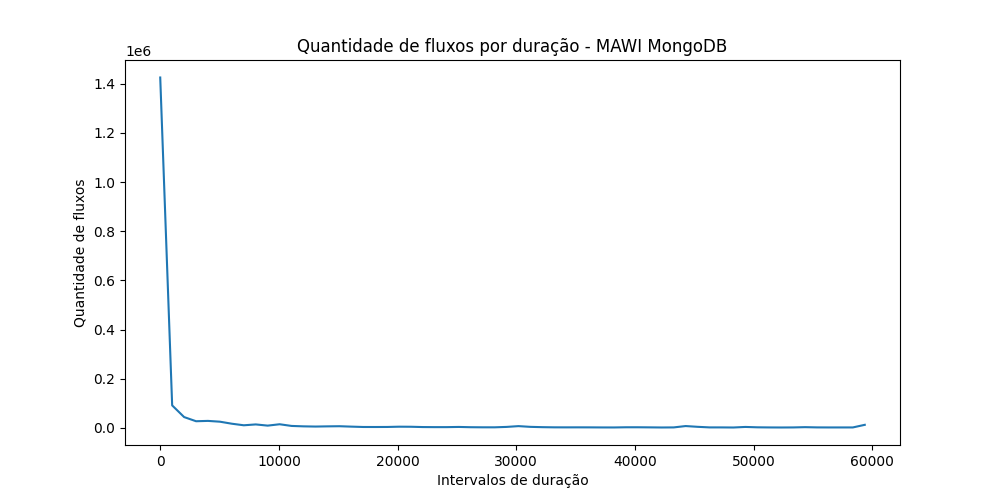
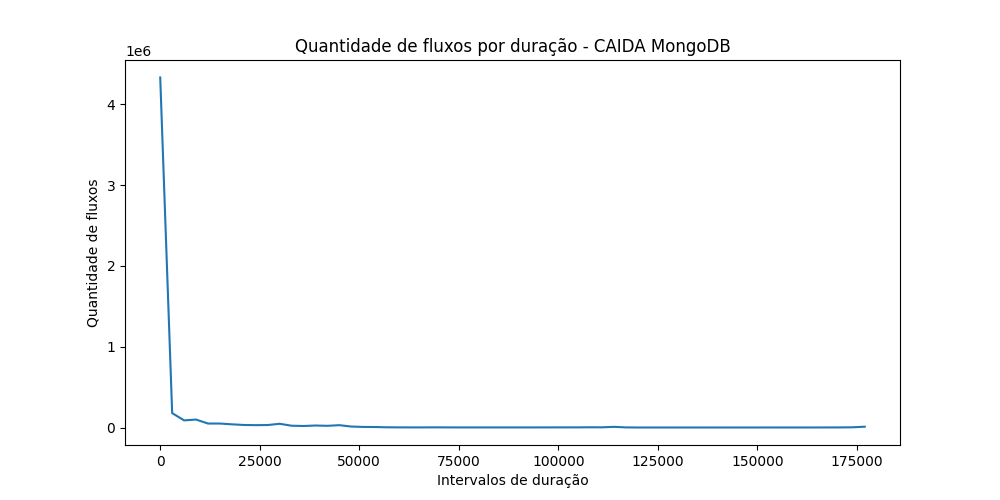
fix: algumas alterações nos códigos de geração de fluxos

diff --git a/AvaliadorFluxo/GeraGraficosMongo.py b/AvaliadorFluxo/GeraGraficosMongo.py
@@ -2,11 +2,18 @@ import matplotlib.pyplot as plt
 import pymongo
 import time
 
-PATH_GRAPHS = "AvaliadorFluxo/Saida/Graficos/AnaliseMawi"
-NAME = "MAWI MongoDB"
-NUMBER_BINS_HISTOGRAMA = 60
-DB_NAME = "fluxos_database"
-COLLECTION_NAME = "mawi_collection"
+if True:
+    PATH_GRAPHS = "AvaliadorFluxo/Saida/Graficos/AnaliseCaida"
+    NAME = "CAIDA MongoDB"
+    NUMBER_BINS_HISTOGRAMA = 60
+    DB_NAME = "fluxos_database"
+    COLLECTION_NAME = "caida_collection"
+else:
+    PATH_GRAPHS = "AvaliadorFluxo/Saida/Graficos/AnaliseMAWI"
+    NAME = "MAWI MongoDB"
+    NUMBER_BINS_HISTOGRAMA = 60
+    DB_NAME = "fluxos_database"
+    COLLECTION_NAME = "mawi_collection"
 
 def main():
     # Conecta ao MongoDB
@@ -14,7 +21,7 @@ def main():
     db = mongo_client[DB_NAME]
     collection = db[COLLECTION_NAME]
 
-    # Pega o maior e o menor tempo de duração e a maior e a menor quantidade de bytes usando queries
+    # Pega o maior e o menor tempo de duracao e a maior e a menor quantidade de bytes usando queries
     bigger_duration = collection.find_one(sort=[("duration", pymongo.DESCENDING)])["duration"]
     smaller_duration = collection.find_one(sort=[("duration", pymongo.ASCENDING)])["duration"]
     bigger_bytes = collection.find_one(sort=[("nbytes_total", pymongo.DESCENDING)])["nbytes_total"]
@@ -25,7 +32,7 @@ def main():
     print("Maior quantidade de bytes: ", bigger_bytes)
     print("Menor quantidade de bytes: ", smaller_bytes)
 
-    # Gera os intervalos de duração e bytes
+    # Gera os intervalos de duracao e bytes
     duration_interval = (bigger_duration - smaller_duration) / NUMBER_BINS_HISTOGRAMA
     duration_intervals = []
     for i in range(NUMBER_BINS_HISTOGRAMA):
@@ -52,13 +59,13 @@ def main():
     # # Número total de bytes
     # total_bytes = sum(bytesSoma)
     # print("Total de bytes: ", total_bytes)
-    # # Tamanho médio dos pacotes
+    # # Tamanho medio dos pacotes
     # tamanho_medio = total_bytes / total_pacotes
-    # print("Tamanho médio dos pacotes: ", tamanho_medio)
+    # print("Tamanho medio dos pacotes: ", tamanho_medio)
 
-# Gráficos
+# Graficos
 
-# Histograma de duração dos fluxos
+# Histograma de duracao dos fluxos
 def duration_histogram(collection, duration_intervals, flows_by_duration_counters, packets_by_duration_counters, total_bytes_by_duration_counters):
     print("*" * 50)
     print("Gerando histograma de duracao dos fluxos...")
@@ -70,7 +77,7 @@ def duration_histogram(collection, duration_intervals, flows_by_duration_counter
         flows_by_duration_counters[i] = collection.count_documents(query)
 
         # Conta a quantidade de pacotes e bytes
-        # Verifique se há resultado antes de acessar
+        # Verifique se ha resultado antes de acessar
         result = collection.aggregate([
             {"$match": query},
             {"$group": {"_id": None, "total_packets": {"$sum": "$npackets_total"}, "total_bytes": {"$sum": "$nbytes_total"}}}
@@ -83,20 +90,20 @@ def duration_histogram(collection, duration_intervals, flows_by_duration_counter
             packets_by_duration_counters[i] = 0
             total_bytes_by_duration_counters[i] = 0
 
-    # Gráfico de linha
+    # Grafico de linha
     plt.figure(figsize=(10, 5))
     plt.plot(duration_intervals, flows_by_duration_counters)
-    plt.xlabel('Intervalos de duração')
+    plt.xlabel('Intervalos de duracao')
     plt.ylabel('Quantidade de fluxos')
-    plt.title('Quantidade de fluxos por duração - ' + NAME)
+    plt.title('Quantidade de fluxos por duracao - ' + NAME)
     plt.savefig(PATH_GRAPHS + "/NumeroDeFluxosPorDuracaoLinha.png")
 
     # Gŕafico de barras
     plt.figure(figsize=(10, 5))
     plt.bar(duration_intervals, flows_by_duration_counters, color="blue", width=(duration_intervals[1] - duration_intervals[0]) * 0.8)
-    plt.xlabel('Intervalos de duração')
+    plt.xlabel('Intervalos de duracao')
     plt.ylabel('Quantidade de fluxos')
-    plt.title('Quantidade de fluxos por duração - ' + NAME)
+    plt.title('Quantidade de fluxos por duracao - ' + NAME)
     plt.savefig(PATH_GRAPHS + "/NumeroDeFluxosPorDuracaoBarra.png")
     print("Quantidade de fluxos por duracao gerado com sucesso!")
 
@@ -110,7 +117,7 @@ def bytes_histogram(collection, bytes_intervals, flows_by_bytes_counters):
             query = {"nbytes_total": {"$gte": bytes_intervals[i], "$lt": bytes_intervals[i + 1]}}
         flows_by_bytes_counters[i] = collection.count_documents(query)
 
-    # Gráfico de linha
+    # Grafico de linha
     plt.figure(figsize=(10, 5))
     plt.plot(bytes_intervals, flows_by_bytes_counters)
     plt.yscale('log')
@@ -119,7 +126,7 @@ def bytes_histogram(collection, bytes_intervals, flows_by_bytes_counters):
     plt.title('Quantidade de fluxos por bytes - ' + NAME)
     plt.savefig(PATH_GRAPHS + "/NumeroFluxosPorBytesLinha.png")
 
-    # Gráfico de barra
+    # Grafico de barra
     plt.figure(figsize=(10, 5))
     plt.bar(bytes_intervals, flows_by_bytes_counters, color="blue", width=(bytes_intervals[1] - bytes_intervals[0]) * 0.8)
     plt.yscale('log')
@@ -139,30 +146,30 @@ def average_packet_size_by_duration_histogram(duration_intervals, packets_by_dur
         else:
             tamanho_medio.append(0)
 
-    # Gráfico de linha
+    # Grafico de linha
     plt.clf()
     plt.plot(duration_intervals, tamanho_medio) 
-    plt.xlabel('Intervalos de duração')
-    plt.ylabel('Tamanho médio dos pacotes')
-    plt.title('Tamanho médio dos pacotes em relação a duração - ' + NAME)
+    plt.xlabel('Intervalos de duracao')
+    plt.ylabel('Tamanho medio dos pacotes')
+    plt.title('Tamanho medio dos pacotes em relacao a duracao - ' + NAME)
     plt.savefig(PATH_GRAPHS + "/TamanhoMedioPacotesPorDuracapLinha.png")
 
     # Gŕafico de barras
     plt.clf()
     plt.bar(duration_intervals, tamanho_medio, color="blue", width=(duration_intervals[1] - duration_intervals[0]) * 0.8)
-    plt.xlabel('Intervalos de duração')
-    plt.ylabel('Tamanho médio dos pacotes')
-    plt.title('Tamanho médio dos pacotes em relação a duração - ' + NAME)
+    plt.xlabel('Intervalos de duracao')
+    plt.ylabel('Tamanho medio dos pacotes')
+    plt.title('Tamanho medio dos pacotes em relacao a duracao - ' + NAME)
     plt.savefig(PATH_GRAPHS + "/TamanhoMedioPacotesPorDuracaoBarra.png")
     print("Histograma de tamanho medio dos pacotes por duracao gerado com sucesso!")
 
 if __name__ == '__main__':
     start_time = time.time()
-    print("Iniciando a geração dos gráficos...")
-    print("Horário:", time.strftime("%H:%M:%S", time.localtime(start_time)))
+    print("Iniciando a geracao dos graficos...")
+    print("Horario:", time.strftime("%H:%M:%S", time.localtime(start_time)))
     print("=" * 50)
     main()
     print("=" * 50)
     end_time = time.time()
     execution_time = end_time - start_time
-    print("Tempo de execução: ", execution_time, " segundos")
+    print("Tempo de execucao: ", execution_time, " segundos")

diff --git a/AvaliadorFluxo/PreProcessameto/UnificadorFluxos.py b/AvaliadorFluxo/PreProcessameto/UnificadorFluxos.py
@@ -4,14 +4,16 @@ from FluxoFile import FluxoFile
 
 # Hiperparametros
 FILES_FLUXOS = [
-    '/home/deivis/Projetos/large-pcap-analyzer-2/caida02.txt',
-    '/home/deivis/Projetos/large-pcap-analyzer-2/caida03.txt',
+    './Datasets/Fluxos/CAIDA/caida02.txt',
+    './Datasets/Fluxos/CAIDA/caida03.txt',
+    './Datasets/Fluxos/CAIDA/caida04.txt',
 ]
 
 DATA_BASE_NAME = "fluxos_database"
 COLLECTION_NAME = "caida_collection"
-TIMEOUT_LIMIT = 20 * 1000  # 15 segundos em milissegundos
+TIMEOUT_LIMIT = 20 * 1000  # 20 segundos em milissegundos
 OFFSET = 60 * 1000         # 60 segundos em milissegundos
+BATCH_SIZE = 50000
 
 # Conecta ao MongoDB
 mongo_client = pymongo.MongoClient("mongodb://localhost:27017/")
@@ -19,25 +21,25 @@ db = mongo_client[DATA_BASE_NAME]
 collection = db[COLLECTION_NAME]
 
 # Cria indices
-collection.create_index([("src", pymongo.ASCENDING),
-                         ("src_port", pymongo.ASCENDING),
-                         ("dst", pymongo.ASCENDING),
-                         ("dst_port", pymongo.ASCENDING)])
+collection.create_index([
+    ("src", pymongo.ASCENDING),
+    ("src_port", pymongo.ASCENDING),
+    ("dst", pymongo.ASCENDING),
+    ("dst_port", pymongo.ASCENDING),
+    ("start", pymongo.DESCENDING),
+])
 
 actual_offset = OFFSET
 
+print("Base de dados:", db.name)
+print("Colecao:", collection.name)
+
 # Percorre os arquivos de fluxos
 for file_name in FILES_FLUXOS:
-    # Carrega os fluxos em memoria
-    with open(file_name, "r") as file:
-        lines = file.readlines()
-
     # Tempo inicial
     start_time = time.time()
     print("Inserindo os fluxos no banco de dados...")
     print("Arquivo:", file_name)
-    print("Base de dados:", db.name)
-    print("Colecao:", collection.name)
     print("Horario:", time.strftime("%H:%M:%S", time.localtime(start_time)))
 
     # Prepara operacoes em lote
@@ -48,58 +50,59 @@ for file_name in FILES_FLUXOS:
     total_updated = 0
     time_to_end_less_than_zero = 0
 
-    # Dados Exemplos
-    last_update_flow = None
-    last_new_flow_on_update = None
-    last_flow = None
+    # Carrega os fluxos em memoria
+    with open(file_name, "r") as file:
+        for line in file:
+            flow = FluxoFile(line, True)
+            query = {
+                "src": flow.src,
+                "src_port": flow.src_port,
+                "dst": flow.dst,
+                "dst_port": flow.dst_port,
+            }
 
-    for line in lines:
-        flow = FluxoFile(line, True)
-        last_flow = flow
-        query = {
-            "src": flow.src,
-            "src_port": flow.src_port,
-            "dst": flow.dst,
-            "dst_port": flow.dst_port,
-        }
+            # Busca o fluxo mais recente com os mesmos parametros
+            result = collection.find_one(query, sort=[("start", pymongo.DESCENDING)])
 
-        # Busca o fluxo mais recente com os mesmos parametros
-        result = collection.find_one(query, sort=[("start", pymongo.DESCENDING)])
+            insert = False  # Controle de insercoes
 
-        insert = False  # Controle de insercoes
+            if result:
+                final = result['start'] + result['duration']
+                time_to_end = (actual_offset + flow.start) - final
 
-        if result:
-            final = result['start'] + result['duration']
-            time_to_end = (actual_offset + flow.start) - final
-
-            if time_to_end < 0:
-                insert = True
-                time_to_end_less_than_zero += 1
-            elif time_to_end > TIMEOUT_LIMIT:
-                insert = True
-            else:
-                total_updated += 1
-                last_update_flow = result
-                last_new_flow_on_update = flow
-                # Se nao deve inserir, atualiza a duracao do fluxo existente
-                new_duration = (actual_offset - result['start']) + (flow.start + flow.duration)
-                bulk_operations.append(
-                    pymongo.UpdateOne(
-                        query,
-                        {"$set": {"duration": new_duration}}
+                if time_to_end < 0:
+                    insert = True
+                    time_to_end_less_than_zero += 1
+                elif time_to_end > TIMEOUT_LIMIT:
+                    insert = True
+                else:
+                    total_updated += 1
+                    # Se nao deve inserir, atualiza a duracao do fluxo existente
+                    new_duration = (actual_offset - result['start']) + (flow.start + flow.duration)
+                    bulk_operations.append(
+                        pymongo.UpdateOne(
+                            query,
+                            {"$set": {"duration": new_duration}}
+                        )
                     )
-                )
-        else:
-            # Nao encontrou fluxo correspondente, deve inserir o novo fluxo
-            insert = True
+            else:
+                # Nao encontrou fluxo correspondente, deve inserir o novo fluxo
+                insert = True
 
-        if insert:
-            total_inserted += 1
-            # Atualiza o tempo de inicio do fluxo
-            flow.start += actual_offset
-            bulk_operations.append(
-                pymongo.InsertOne(flow.to_dict())
-            )
+            if insert:
+                total_inserted += 1
+                # Atualiza o tempo de inicio do fluxo
+                flow.start += actual_offset
+                bulk_operations.append(
+                    pymongo.InsertOne(flow.to_dict())
+                )
+
+            if len(bulk_operations) == BATCH_SIZE:
+                collection.bulk_write(bulk_operations)
+                bulk_operations = []
+                # Tempo em segundos para inserir BATCH_SIZE fluxos
+                time_to_insert = time.time() - start_time
+                print(f"Fluxos inseridos: {BATCH_SIZE} - Tempo: {time_to_insert} segundos")
 
     # Executa operacoes em lote
     if bulk_operations:
@@ -110,22 +113,9 @@ for file_name in FILES_FLUXOS:
     print(f"Tempo de execucoes: {execution_time} segundos")
 
     # Exibe estatisticas
-    print("Total de fluxos:", len(lines))
+    print("Total de fluxos:", total_inserted + total_updated)
     print("Total de fluxos inseridos:", total_inserted)
     print("Total de fluxos atualizados:", total_updated)
     print("Total de fluxos com tempo negativo:", time_to_end_less_than_zero)
-
-    # Exibe os ultimos fluxos inseridos e atualizados
-    print("========================================")
-    print("Ultimos fluxo inserido:")
-    print(last_flow)
-    print("========================================")
-    print("Ultimos fluxo atualizado:")
-    print(last_update_flow)
-    print("========================================")
-    print("Novo fluxo no ultimos update:")
-    print(last_new_flow_on_update)
-    print("========================================")
-
 
     actual_offset += OFFSET
